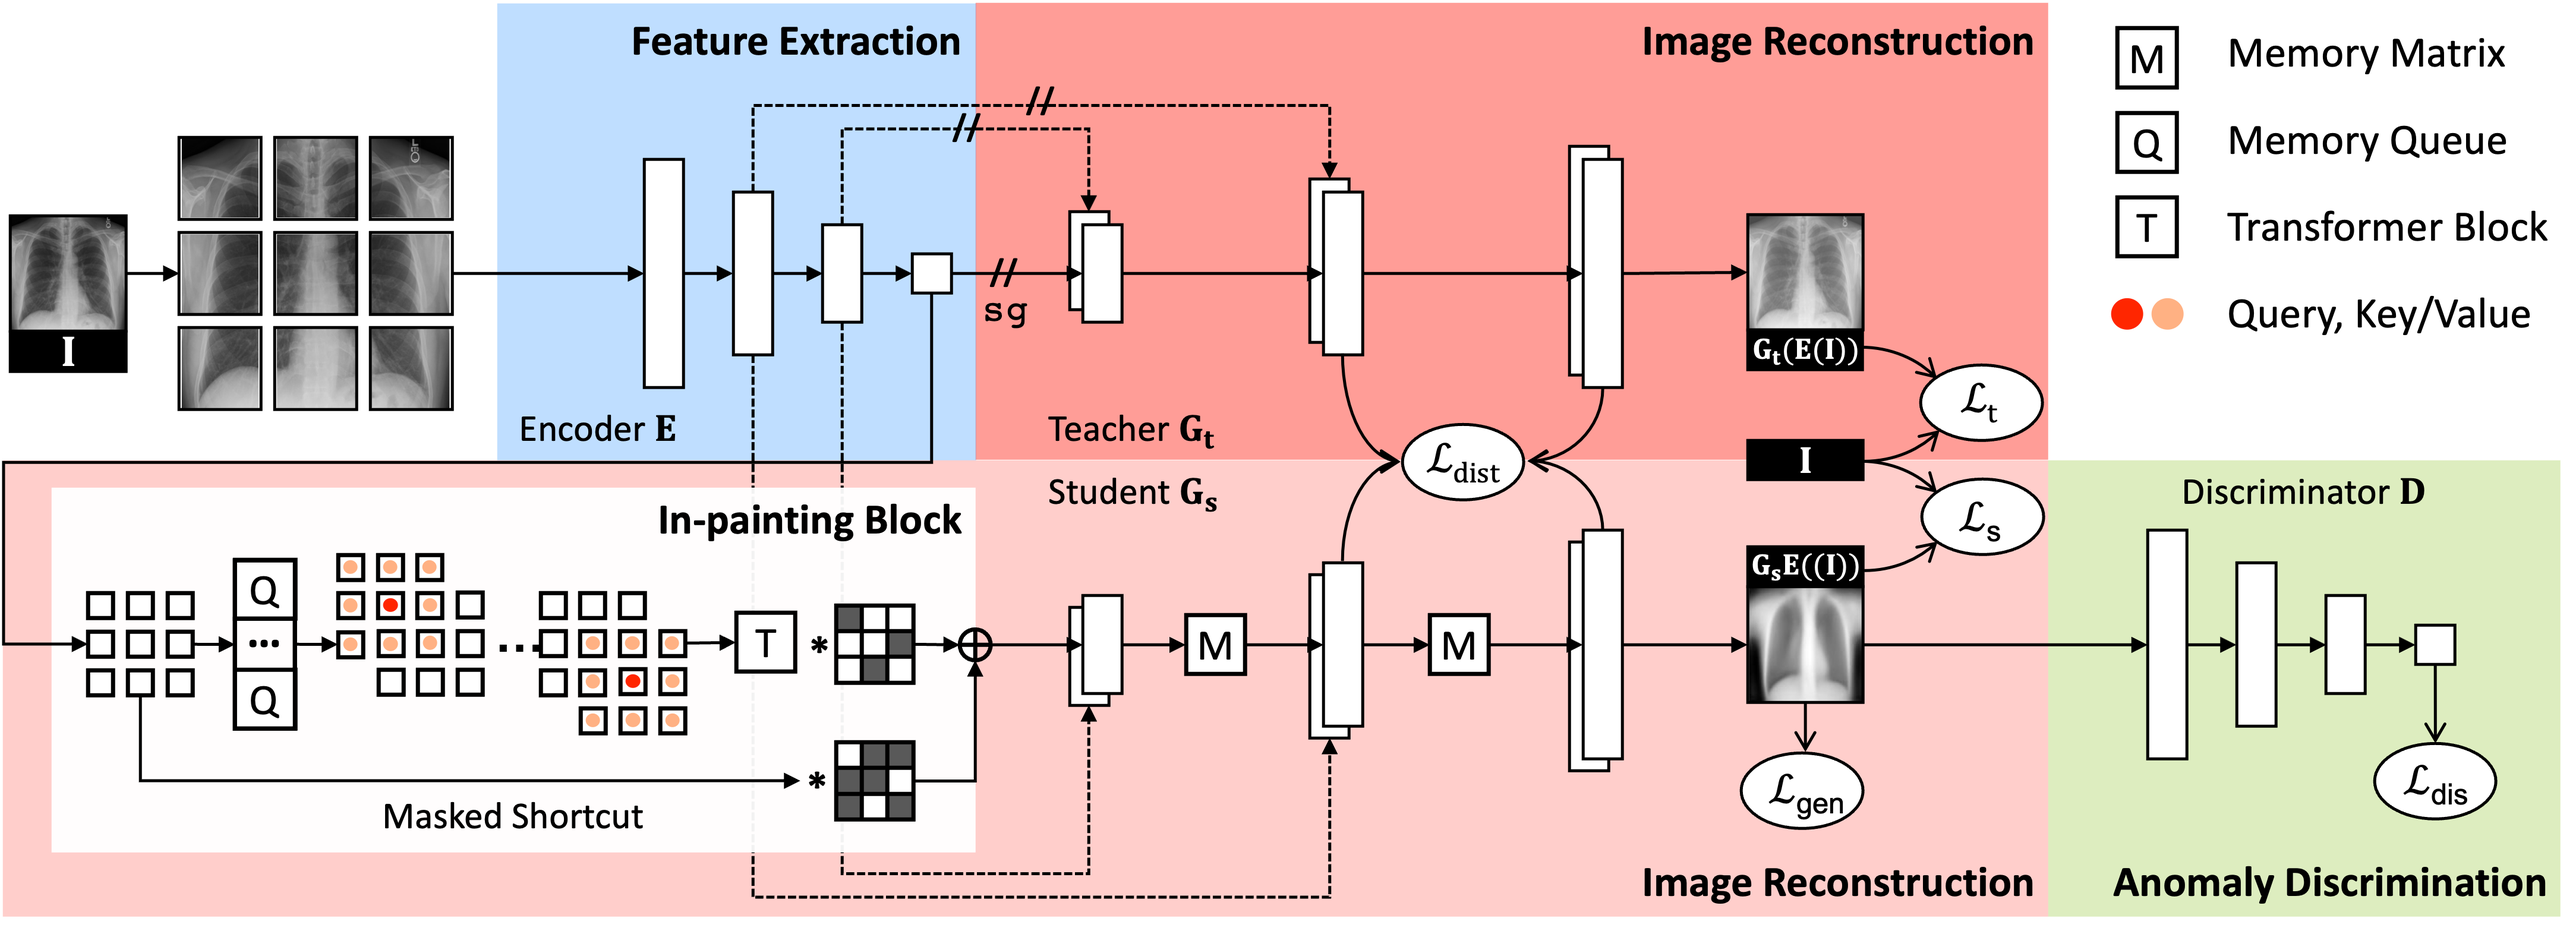
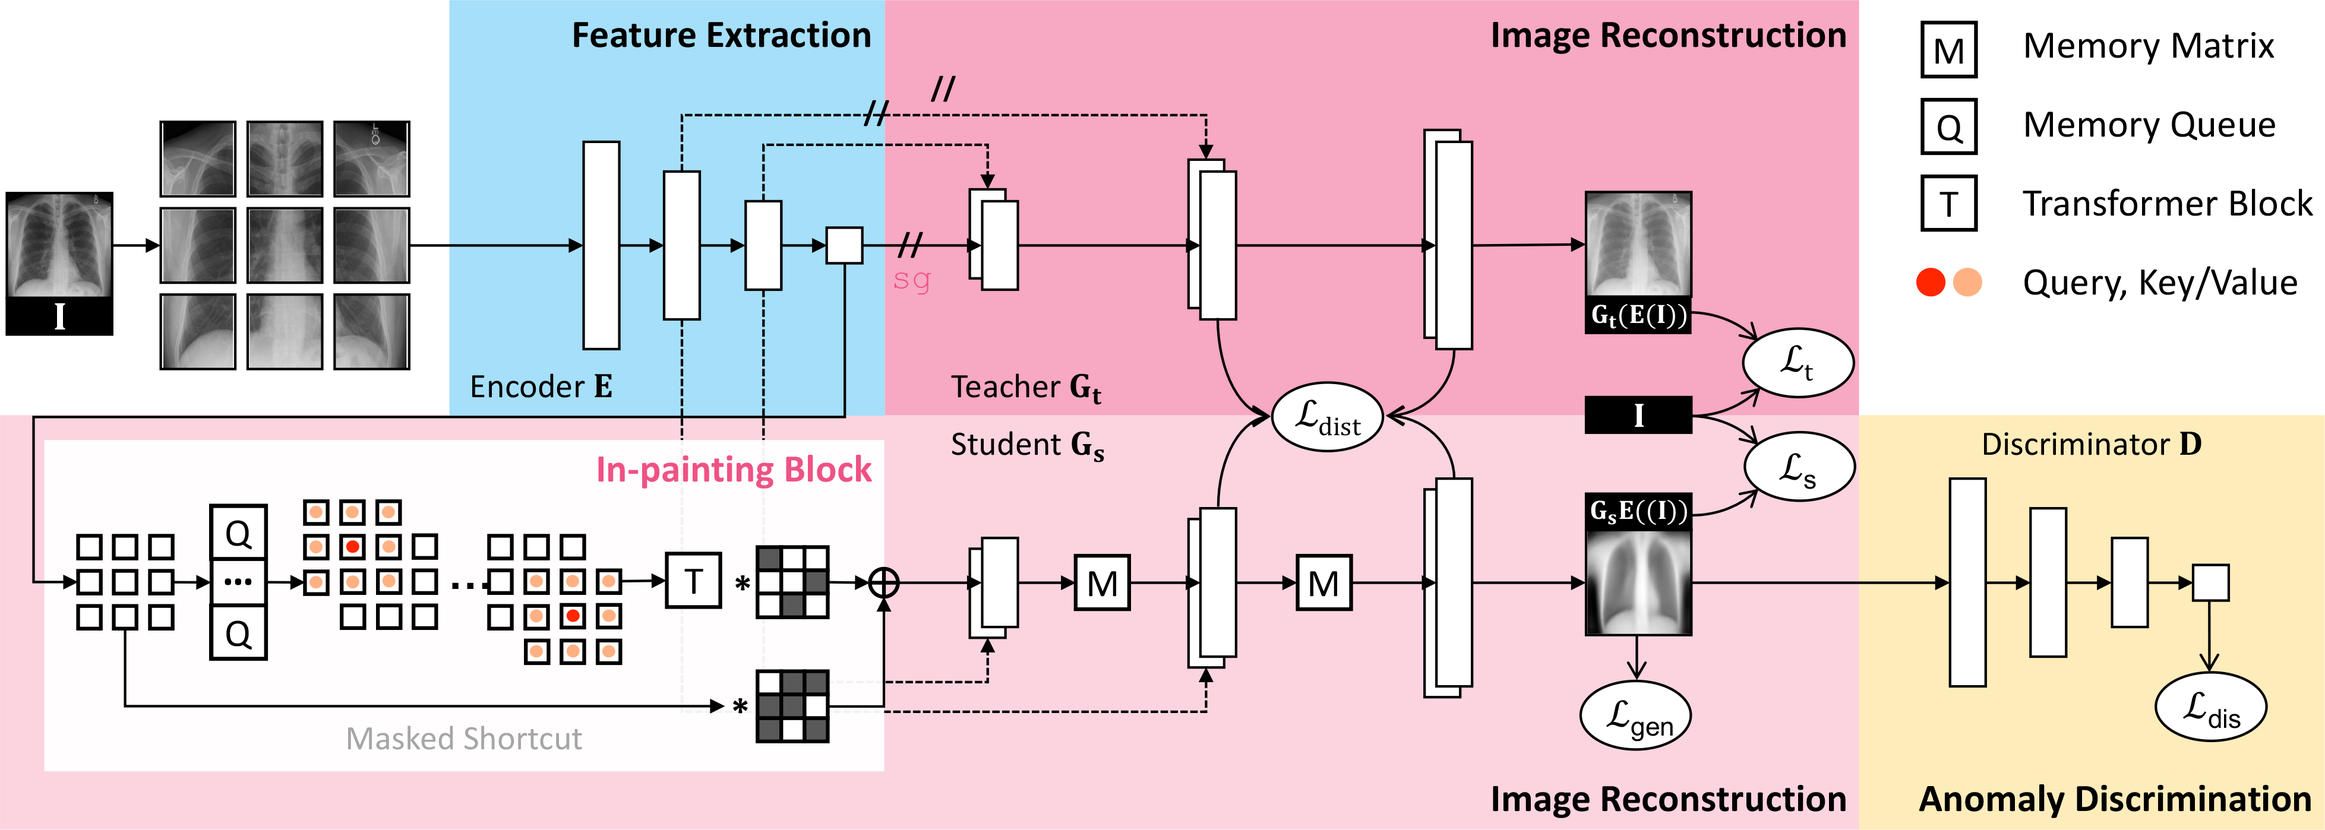
Add figures

diff --git a/README.md b/README.md
@@ -7,7 +7,7 @@ To exploit this structured information, SQUID consists of a new Memory Queue and
 SQUID can taxonomize the ingrained anatomical structures into recurrent patterns; and in the inference, SQUID can identify anomalies (unseen/modified patterns) in the image.
 SQUID surpasses the state of the art in unsupervised anomaly detection by over 5 points on two chest X-ray benchmark datasets.
 
-<p align="center"><img width="100%" src="figures/fig_framework.pdf" /></p>
+<p align="center"><img width="100%" src="figures/fig_framework.png" /></p>
 
 ## Paper
 
